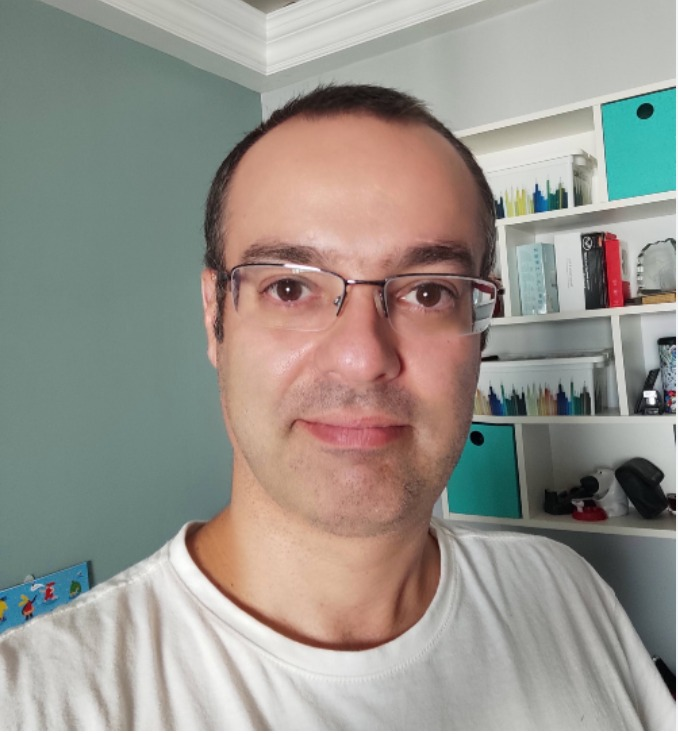
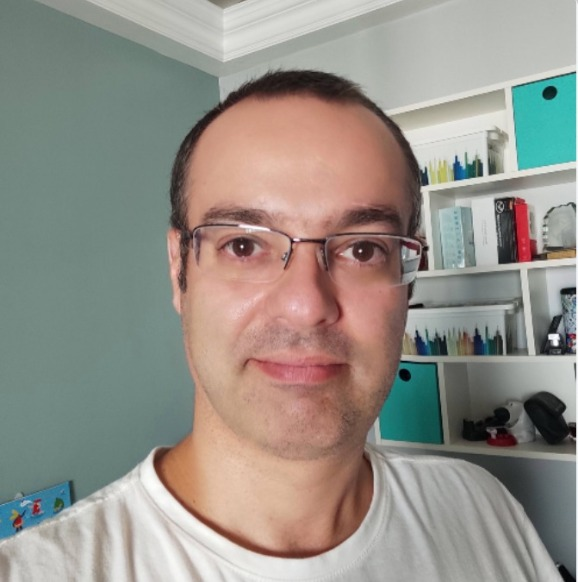
fotos atualizadas

diff --git a/index.html b/index.html
@@ -242,8 +242,8 @@
               <div class="card h-100 text-center shadow">
                 <img src="./assets/commitee/Andreia.JPG" class="card-img-top" alt="John Doe">
                 <div class="card-body">
-                  <h5 class="card-title">Andréia Formicoo</h5>
-                  <p class="card-text">Co-Chairs</p>
+                  <h5 class="card-title">Andréia Formico</h5>
+                  <p class="card-text">Universidade de Fortaleza (Unifor)</p>
                 </div>
               </div>
             </div>
@@ -254,7 +254,7 @@
                 <img src="./assets/commitee/Troy.jpeg" class="card-img-top" alt="Jane Smith">
                 <div class="card-body">
                   <h5 class="card-title">Troy Kohwalter</h5>
-                  <p class="card-text">Co-Chairs</p>
+                  <p class="card-text">Universidade Federal Fluminense (UFF)</p>
                 </div>
               </div>
             </div>
@@ -264,6 +264,7 @@
         <ul>
           <li>André Brandão (UFABC, Brazil)</li> 
           <li>Cristiano Politowski (OntarioTech University, Canada)</li>
+          <li>Edirlei Soares de Lima (Breda University of Applied Sciences, Netherland)</li>
           <li>Esteban Clua (UFF, Brazil)</li>
           <li>Fabio Petrillo (ÉTS, Canada)</li>
           <li>Fernando Trinta (UFC, Brazil)</li>
@@ -283,7 +284,7 @@
                 <img src="./assets/commitee/Andre.jpeg" class="card-img-top" alt="John Doe">
                 <div class="card-body">
                   <h5 class="card-title">André Brandão</h5>
-                  <p class="card-text">Program Chair</p>
+                  <p class="card-text">Universidade Federal do ABC (UFABC)</p>
                 </div>
               </div>
             </div>
@@ -294,17 +295,25 @@
                 <img src="./assets/commitee/Cristiano.jpeg" class="card-img-top" alt="Jane Smith">
                 <div class="card-body">
                   <h5 class="card-title">Cristiano Politowski </h5>
-                  <p class="card-text">Program Chair</p>
+                  <p class="card-text">Ontario Tech University</p>
                 </div>
               </div>
             </div>
-            
+             <div class="col-sm-6 col-md-4 col-lg-3">
+              <div class="card h-100 text-center shadow">
+                <img src="./assets/commitee/Edirlei.jpeg" class="card-img-top" alt="Jane Smith">
+                <div class="card-body">
+                  <h5 class="card-title">Edirlei Soares de Lima</h5>
+                  <p class="card-text">Breda University of Applied Sciences</p>
+                </div>
+              </div>
+            </div>
             <div class="col-sm-6 col-md-4 col-lg-3">
               <div class="card h-100 text-center shadow">
                 <img src="./assets/commitee/Esteban.jpeg" class="card-img-top" alt="Jane Smith">
                 <div class="card-body">
                   <h5 class="card-title">Esteban Clua</h5>
-                  <p class="card-text">Program Chair</p>
+                  <p class="card-text">Universidade Federal Fluminense (UFF)</p>
                 </div>
               </div>
             </div>
@@ -313,8 +322,8 @@
               <div class="card h-100 text-center shadow">
                 <img src="./assets/commitee/Fabio.jpeg" class="card-img-top" alt="Jane Smith">
                 <div class="card-body">
-                  <h5 class="card-title">Fabio Trinta</h5>
-                  <p class="card-text">Program Chair</p>
+                  <h5 class="card-title">Fabio Petrillo</h5>
+                  <p class="card-text">École de technologie supérieure (ÉTS)</p>
                 </div>
               </div>
             </div>
@@ -323,7 +332,7 @@
                 <img src="./assets/commitee/Fernando.jpeg" class="card-img-top" alt="Jane Smith">
                 <div class="card-body">
                   <h5 class="card-title">Fernando Trinta</h5>
-                  <p class="card-text">Program Chair</p>
+                  <p class="card-text">Universidade Federal do Ceará (UFC)</p>
                 </div>
               </div>
             </div>
@@ -332,7 +341,7 @@
                 <img src="./assets/commitee/Juscimar.jpeg" class="card-img-top" alt="Jane Smith">
                 <div class="card-body">
                   <h5 class="card-title">Jucimar da Silva Junior</h5>
-                  <p class="card-text">Program Chair</p>
+                  <p class="card-text">Núcleo de Ensino Superior de Boca do Acre (UEA)</p>
                 </div>
               </div>
             </div>
@@ -341,7 +350,7 @@
                 <img src="./assets/commitee/Kiev.jpeg" class="card-img-top" alt="Jane Smith">
                 <div class="card-body">
                   <h5 class="card-title">Kyev Gama</h5>
-                  <p class="card-text">Program Chair</p>
+                  <p class="card-text">Centro de Informática da Universidade Federal de Pernambuco (Cin/UFPE)</p>
                 </div>
               </div>
             </div>
@@ -350,7 +359,7 @@
                 <img src="./assets/commitee/Marcela.jpeg" class="card-img-top" alt="Jane Smith">
                 <div class="card-body">
                   <h5 class="card-title">Marcela Pessoa</h5>
-                  <p class="card-text">Program Chair</p>
+                  <p class="card-text">Núcleo de Ensino Superior de Boca do Acre (UEA)</p>
                 </div>
               </div>
             </div>
@@ -359,16 +368,16 @@
                 <img src="./assets/commitee/Nabor.jpeg" class="card-img-top" alt="Jane Smith">
                 <div class="card-body">
                   <h5 class="card-title">Nabor Mendonça</h5>
-                  <p class="card-text">Program Chair</p>
+                  <p class="card-text">Universidade de Fortaleza (Unifor)</p>
                 </div>
               </div>
             </div>
             <div class="col-sm-6 col-md-4 col-lg-3">
               <div class="card h-100 text-center shadow">
-                <img src="./assets/commitee/Windson.jpeg" class="card-img-top" alt="Jane Smith" >
+                <img src="./assets/commitee/Rodrigo.jpeg" class="card-img-top" alt="Jane Smith" >
                 <div class="card-body">
-                  <h5 class="card-title">Rodrigo Santoa</h5>
-                  <p class="card-text">Program Chair</p>
+                  <h5 class="card-title">Rodrigo Santos</h5>
+                  <p class="card-text">Universidade Federal do Estado do Rio de Janeiro (UNIRIO)r</p>
                 </div>
               </div>
             </div>
@@ -377,17 +386,17 @@
                 <img src="./assets/commitee/Windson.jpeg" class="card-img-top" alt="Jane Smith">
                 <div class="card-body">
                   <h5 class="card-title">Windson Viana</h5>
-                  <p class="card-text">Program Chair</p>
+                  <p class="card-text">Universidade Federal do Ceará (UFC)</p>
                 </div>
               </div>
-            </div>\
+            </div>
             <!-- Adicione mais cards aqui... -->
-      
           </div>
         </div>
-
-      <p>Committee still in formation — this list will be updated soon.</p>
     </section>
+    <br>
+    <br>
+    <p>Committee still in formation — this list will be updated soon.</p>
   </main>
 
   <!-- Footer -->
